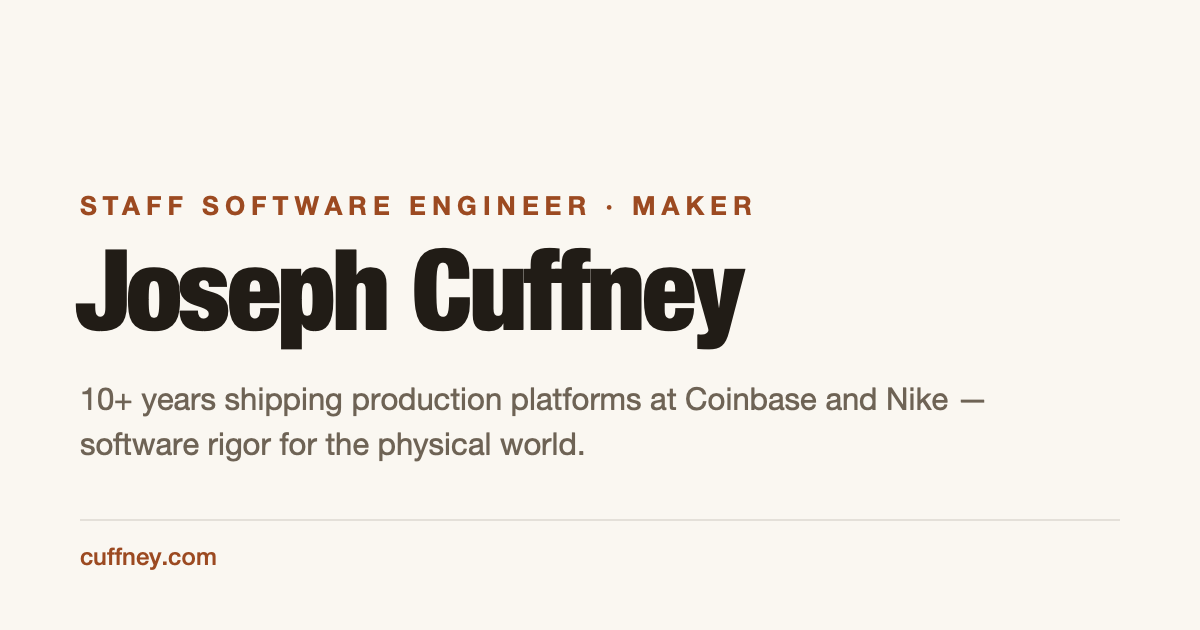
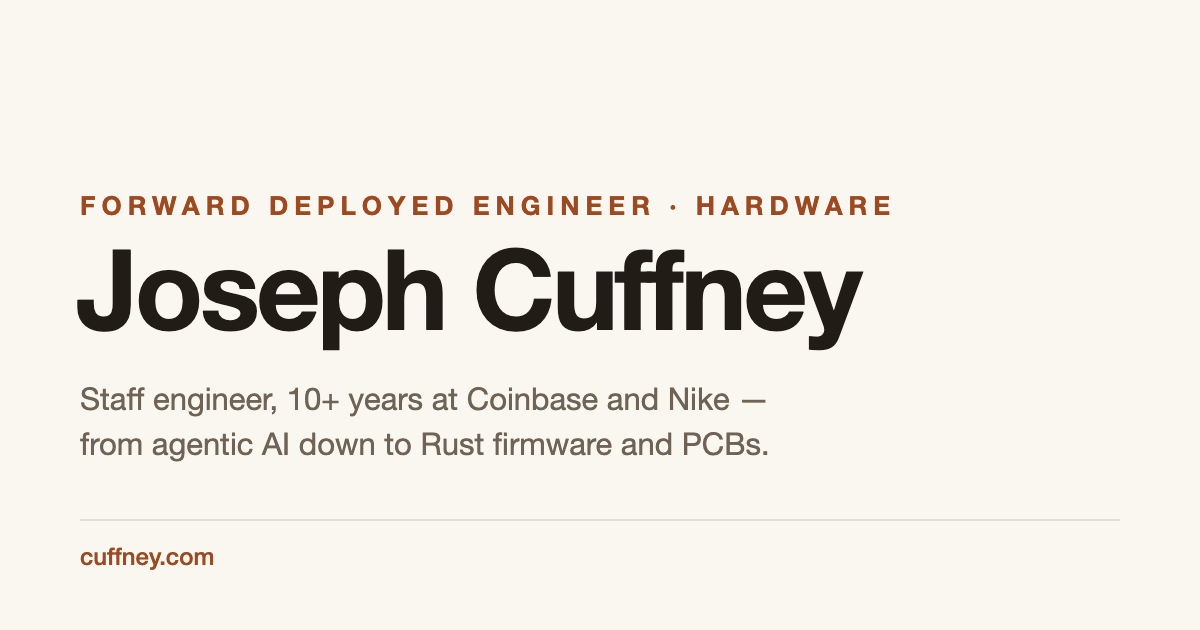
content: position for forward deployed engineer roles, keep hardware up front
Overline, lede, meta/OG/Twitter copy, and the share image now lead with
forward deployed engineering while keeping Rust firmware and custom PCBs
in the headline range. Adds knowsAbout to the JSON-LD Person and bumps
the sitemap lastmod.

diff --git a/index.html b/index.html
@@ -3,13 +3,13 @@
 <head>
   <meta charset="utf-8">
   <meta name="viewport" content="width=device-width, initial-scale=1">
-  <title>Joseph Cuffney — Software Engineer &amp; Maker</title>
-  <meta name="description" content="Joseph Cuffney is a staff software engineer and maker — production platforms at Coinbase and Nike, plus Rust firmware, custom PCBs, and agentic AI systems.">
+  <title>Joseph Cuffney — Forward Deployed Engineer</title>
+  <meta name="description" content="Joseph Cuffney is a staff-level forward deployed engineer — 10+ years shipping production platforms at Coinbase and Nike, from agentic AI systems down to Rust firmware and custom PCBs.">
   <meta name="author" content="Joseph Cuffney">
   <link rel="canonical" href="https://cuffney.com/">
   <meta name="theme-color" content="#faf7f1">
-  <meta property="og:title" content="Joseph Cuffney — Software Engineer &amp; Maker">
-  <meta property="og:description" content="Staff software engineer and maker. Software rigor for the physical world.">
+  <meta property="og:title" content="Joseph Cuffney — Forward Deployed Engineer">
+  <meta property="og:description" content="Forward deployed engineer. Production software, agentic AI, and hardware — shipped into the real world.">
   <meta property="og:url" content="https://cuffney.com/">
   <meta property="og:type" content="website">
   <meta property="og:site_name" content="Joseph Cuffney">
@@ -17,12 +17,12 @@
   <meta property="og:image" content="https://cuffney.com/og.png">
   <meta property="og:image:width" content="1200">
   <meta property="og:image:height" content="630">
-  <meta property="og:image:alt" content="Joseph Cuffney — Staff Software Engineer and Maker">
+  <meta property="og:image:alt" content="Joseph Cuffney — Forward Deployed Engineer, software and hardware">
   <meta name="twitter:card" content="summary_large_image">
-  <meta name="twitter:title" content="Joseph Cuffney — Software Engineer &amp; Maker">
-  <meta name="twitter:description" content="Staff software engineer and maker. Software rigor for the physical world.">
+  <meta name="twitter:title" content="Joseph Cuffney — Forward Deployed Engineer">
+  <meta name="twitter:description" content="Forward deployed engineer. Production software, agentic AI, and hardware — shipped into the real world.">
   <meta name="twitter:image" content="https://cuffney.com/og.png">
-  <meta name="twitter:image:alt" content="Joseph Cuffney — Staff Software Engineer and Maker">
+  <meta name="twitter:image:alt" content="Joseph Cuffney — Forward Deployed Engineer, software and hardware">
   <link rel="icon" type="image/svg+xml" href="/favicon.svg">
   <link rel="apple-touch-icon" href="/apple-touch-icon.png">
   <link rel="preload" href="/fonts/inter-latin-var.woff2" as="font" type="font/woff2" crossorigin>
@@ -36,6 +36,7 @@
     "image": "https://cuffney.com/og.png",
     "jobTitle": "Staff Software Engineer",
     "worksFor": { "@type": "Organization", "name": "Coinbase" },
+    "knowsAbout": ["Forward deployed engineering", "Agentic AI", "Distributed systems", "Embedded Rust", "PCB design"],
     "alumniOf": { "@type": "CollegeOrUniversity", "name": "Rochester Institute of Technology" },
     "address": { "@type": "PostalAddress", "addressLocality": "Rochester", "addressRegion": "NY", "addressCountry": "US" },
     "email": "mailto:josephcuffney@gmail.com",

diff --git a/src/App.jsx b/src/App.jsx
@@ -12,12 +12,14 @@ export default function App() {
     <>
       <main>
         <header className="intro">
-          <p className="overline">Staff Software Engineer · Maker</p>
+          <p className="overline">Forward Deployed Engineer ·&nbsp;Hardware</p>
           <h1>Joseph Cuffney</h1>
           <p className="lede">
-            10+ years shipping production platforms at Coinbase and Nike —
-            and Rust firmware, custom PCBs, and agentic AI systems as a maker.
-            I bring software rigor to the physical world.
+            Staff engineer with 10+ years shipping production platforms at
+            Coinbase and Nike. I embed with the people who have the problem,
+            build the system, and stay until it works in the real world —
+            from agentic AI and cloud platforms down to Rust firmware and
+            custom PCBs.
           </p>
         </header>
 
